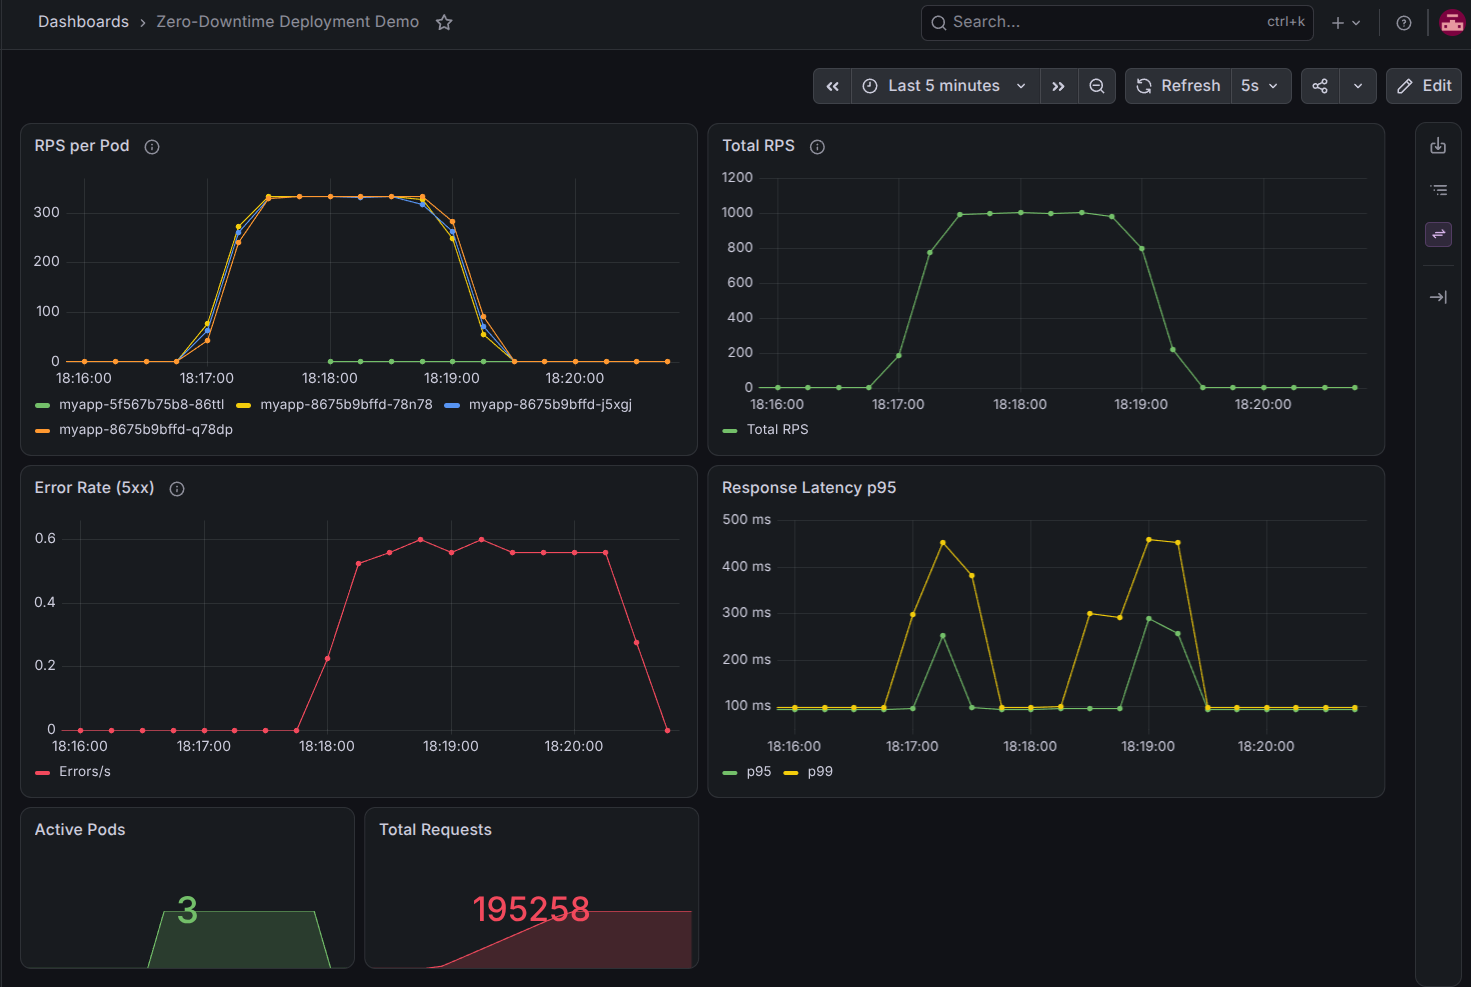
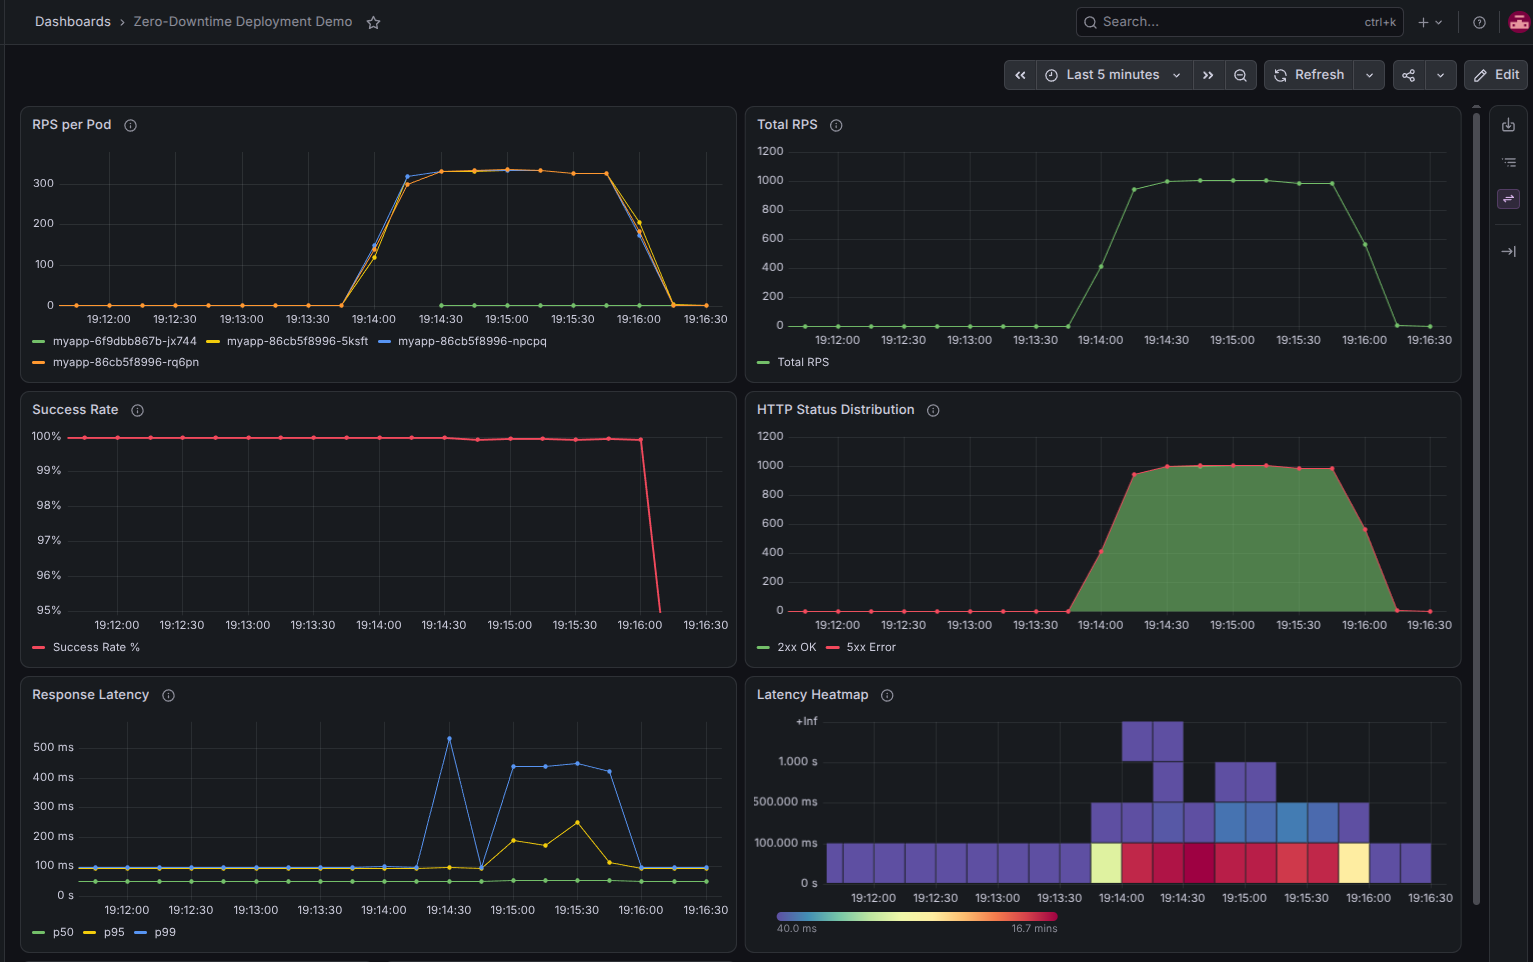
update zro-downtime test results

diff --git a/app/main.py b/app/main.py
@@ -49,7 +49,7 @@ async def on_startup():
 @app.get("/")
 def hello():
     logger.info("Request successful handled!")
-    return {"ok": True, "version": 9}
+    return {"ok": True, "version": 10}
 
 
 @app.get("/health")
